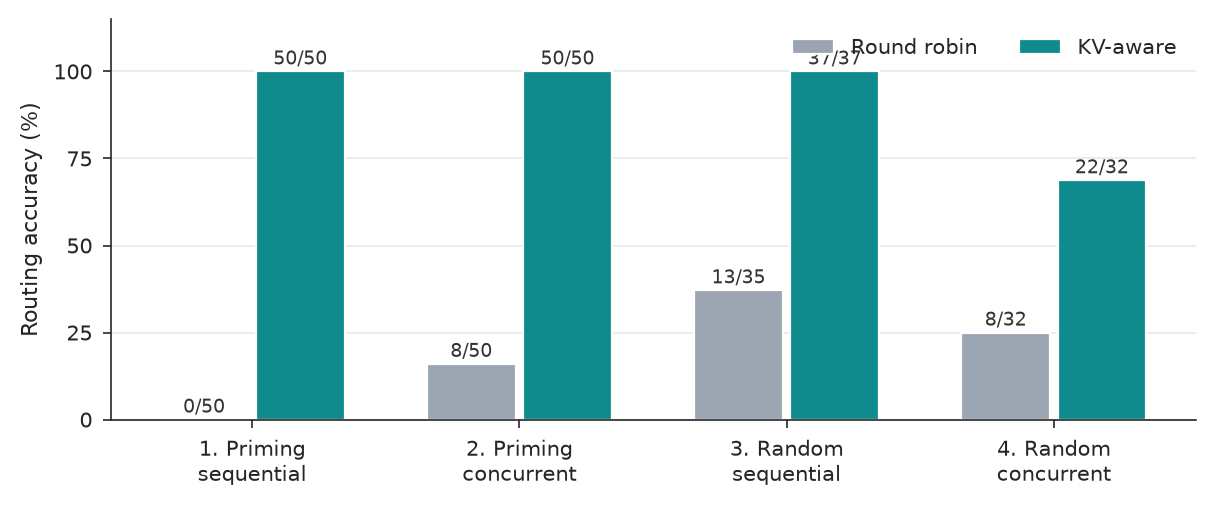
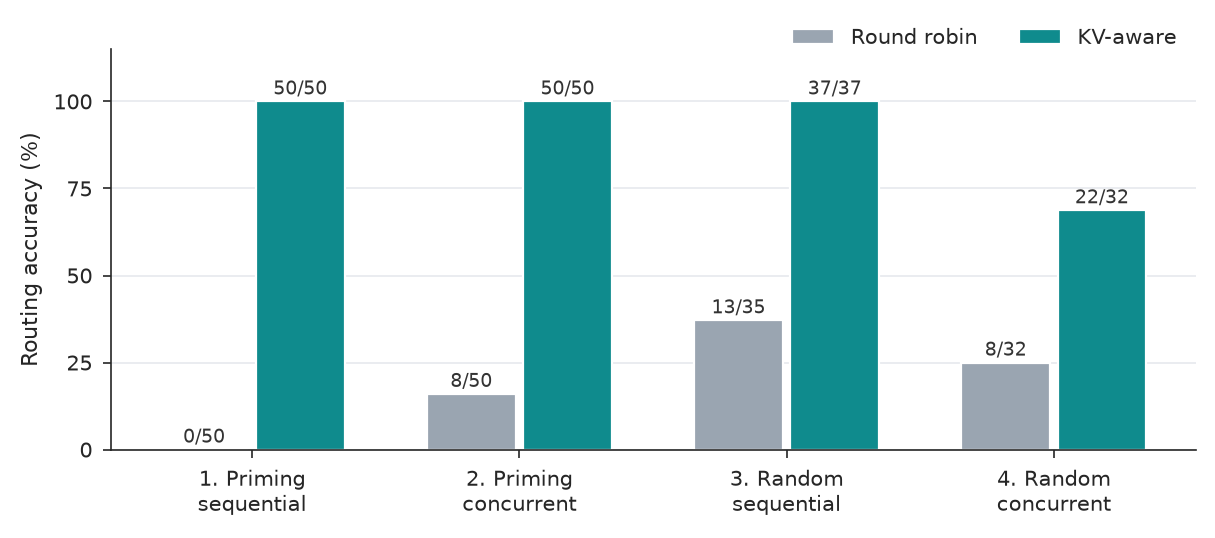
visualizations

diff --git a/vis_all.py b/vis_all.py
@@ -126,7 +126,9 @@ ax.set_xticklabels([c[2].replace(", ", "\n") for c in CONFIGS])
 ax.set_ylim(0, 115)
 ax.set_yticks([0, 25, 50, 75, 100])
 ax.set_ylabel("Routing accuracy (%)")
-ax.legend(frameon=False, loc="upper right", ncol=2, fontsize=7.5)
+ax.legend(
+    frameon=False, loc="upper right", ncol=2, fontsize=7.5, bbox_to_anchor=(1, 1.1)
+)
 ax.grid(axis="x", visible=False)
 save(fig, "fig1_routing_accuracy")
 
